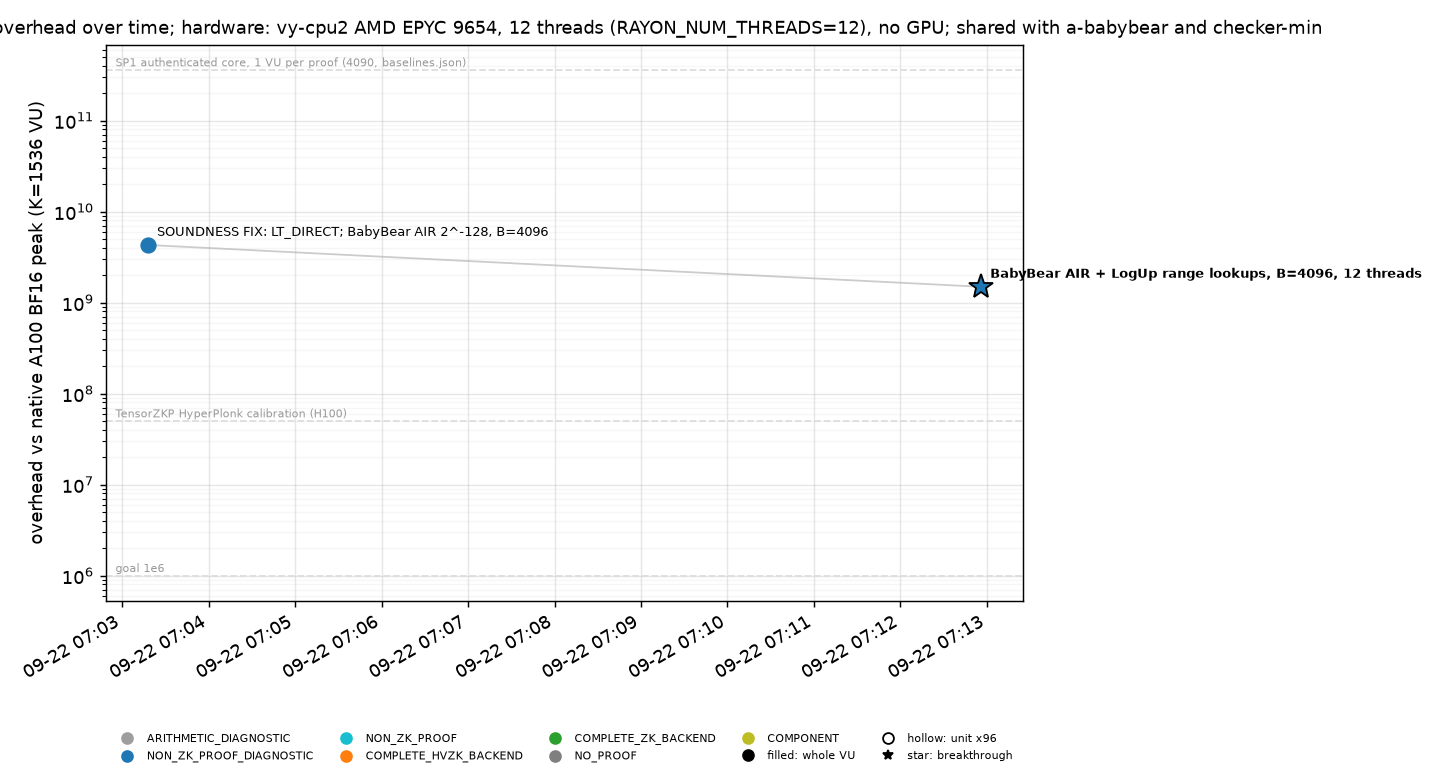
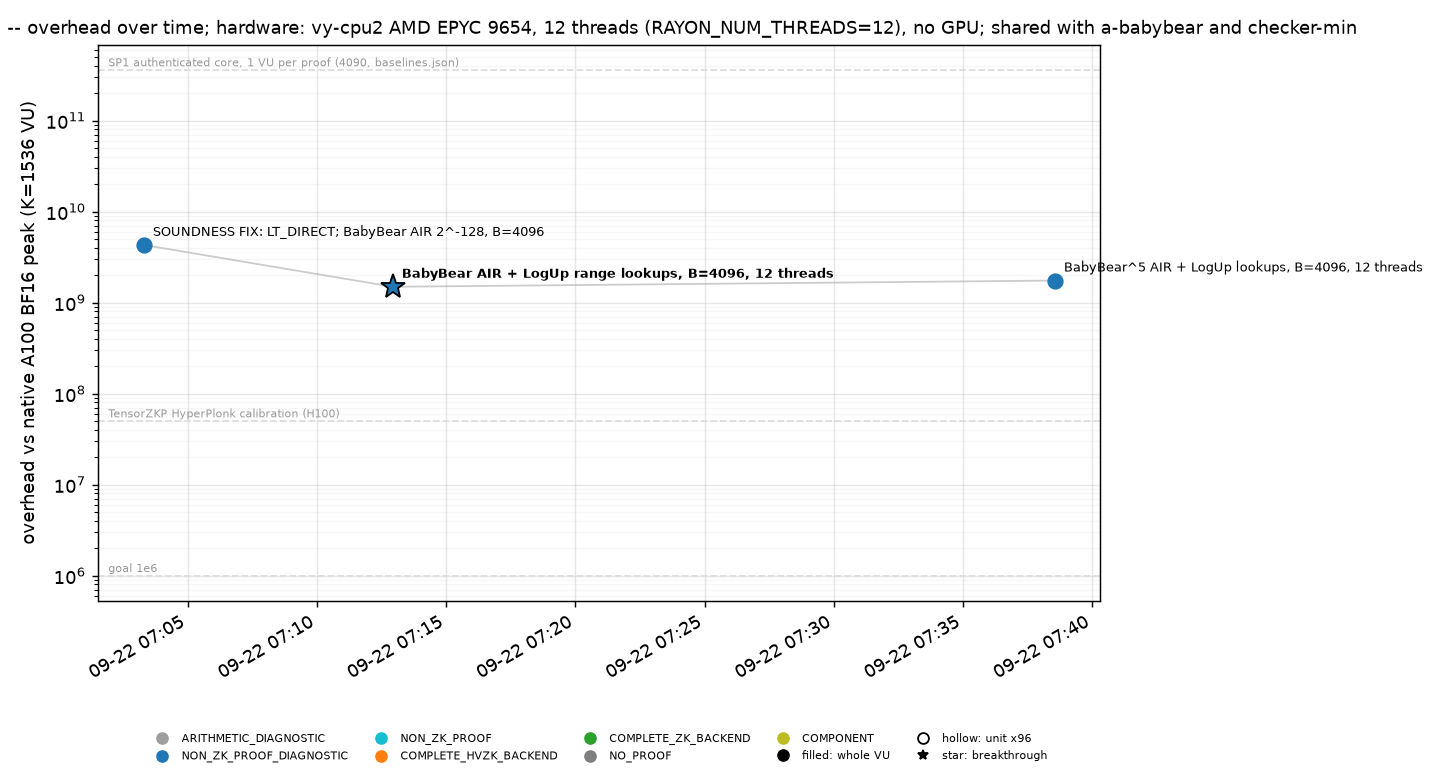
PROTOCOL 14.5/14.6: measurement table (limbs vs LogUp ^4 vs ^5) and the span profile (quotient 69%/68%, LDE+Merkle 23%); ledger ^5 entry; normalise hint shifts panic-free on adversarial overrides in debug; README

diff --git a/backends/direct/src/program.rs b/backends/direct/src/program.rs
@@ -490,6 +490,11 @@ fn leading_bit<C: Ctx>(ctx: &mut C, v: &C::V, tag: &str) -> C::V {
     l
 }
 
+/// Shifts that do not panic on adversarial (overridden) hint inputs in debug builds: the hint closures run on
+/// whatever the row supplies (`IntCtx::overrides`, the battery); the constraints, not these closures, are the check.
+fn shl(v: i128, k: i128) -> i128 { if (0..127).contains(&k) { v << k } else { 0 } }
+fn shr(v: i128, k: i128) -> i128 { if (0..127).contains(&k) { v >> k } else if v < 0 { -1 } else { 0 } }
+
 /// Normalise: (e1, M)
 fn normalise<C: Ctx>(ctx: &mut C, e: &C::V, l: &C::V, v: &C::V, tag: &str) -> (C::V, C::V) {
     let clamp = ctx.hint(&format!("{tag}.clamp"), &[e, l], &|x| ((x[0] + x[1] - WIDTH) < E_MIN) as i128);
@@ -497,13 +502,13 @@ fn normalise<C: Ctx>(ctx: &mut C, e: &C::V, l: &C::V, v: &C::V, tag: &str) -> (C
         let (e, l, v) = (x[0], x[1], x[2]);
         let e1 = (e + l - WIDTH).max(E_MIN);
         let k = e - e1 + ACC_SIG - WIDTH;
-        if k >= 0 { v << k } else { v >> -k }
+        if k >= 0 { shl(v, k) } else { shr(v, -k) }
     });
     let r = ctx.hint(&format!("{tag}.r"), &[e, l, v], &|x| {
         let (e, l, v) = (x[0], x[1], x[2]);
         let e1 = (e + l - WIDTH).max(E_MIN);
         let k = e - e1 + ACC_SIG - WIDTH;
-        if k >= 0 { 0 } else { v - ((v >> -k) << -k) }
+        if k >= 0 { 0 } else { v - shl(shr(v, -k), -k) }
     });
     ctx.boolean(&format!("{tag}.clamp"), &clamp);
     ctx.rng(&format!("{tag}.M"), &m, 0, 1 << ACC_SIG);

diff --git a/backends/direct/src/main.rs b/backends/direct/src/main.rs
@@ -51,6 +51,7 @@ fn main() {
             .with_env_filter(tracing_subscriber::EnvFilter::from_default_env())
             .with_span_events(FmtSpan::CLOSE)
             .with_target(false)
+            .with_ansi(false)
             .with_writer(std::io::stderr)
             .init();
     }

diff --git a/backends/direct/PROTOCOL.md b/backends/direct/PROTOCOL.md
@@ -726,4 +726,45 @@ the fast configuration is **\(2^{-93.8}\)**, and \(2^{-124.8}\) costs 17% more t
 
 ### 14.6 Where the time goes (profile)
 
-LOOKUP_PROFILE_PLACEHOLDER
+`run_profile.sh` runs both realisations with `RUST_LOG=debug` (a `tracing_subscriber` behind the env var prints
+Plonky3's `info_span!`s on close with their busy time; for the lookup prover the stage timers of `lookup_stark.rs`
+are printed as `lookup stages:`).  Run `r20260922-072959-ef63`, same configuration as 14.5, summary in
+`results/profile_spans_babybear_4096_r20260922-072959-ef63.txt`.  Busy seconds inside `prove` (12 threads):
+
+| stage | 2-bit limbs (width 2 930) | LogUp (401 + 6 + 456) | what it is |
+|---|---|---|---|
+| quotient evaluation | **102.0** (69%) | **36.7** (68%) | every constraint on every row of the 4x LDE coset, packed: the CPU bottleneck in both |
+| commit: coset LDE | 20.9 | 7.3 (3.3 main + 3.5 aux + 0.5 P, quotient) | DFT of the committed columns |
+| commit: Merkle (Keccak) | 13.8 | 5.0 | hashing the LDE rows |
+| open (`reduce matrix quotient`) | 7.3 | 3.0 | DEEP quotients over all committed matrices |
+| FRI (commit phase, 19 folds) | 0.5 | 0.5 | |
+| witness (outside `prove`) | 21.6 | 5.5 | integer forward run + hint materialisation (single pass, Rayon over VUs) |
+| total prove | 148 | 54 | |
+
+Reading:
+
+- **Constraint evaluation, not committed bytes, is the CPU bottleneck** in both realisations: 69% / 68% of `prove`.
+  With 2-bit limbs the quotient pass evaluates 3 247 constraints of degree \(\le 3\) per coset row, most of them
+  the trivial `l(l-1)(l-2)(l-3)` limb constraints and the wide limb recompositions -- cheap each, but 2 930 columns
+  of coset data stream through it.  With LogUp the program's constraints (402 base constraints, incl. the chain
+  tail) remain and the lookup adds 112 helper constraints + the \(g\) and \(S\) constraints over \(F_{ext}\), each
+  helper a degree-4 product over its 4 query terms; after the `prod_and_sum` rewrite (one extension multiplication
+  per query term instead of three) the pass is 2.8x cheaper -- the same factor as the total, so on CPU the
+  quotient pass scales with committed width \(\times\) constraint degree, and there is no separate encoding wall.
+- Encoding (LDE + Merkle) is 23% of `prove` in both; per committed base column it costs the same (\(\approx
+  12\) ms per column at \(2^{19}\) rows on 12 threads).  On the GPU (tensor.md) this is the part that becomes the whole
+  story, and it fell 3.4x in bytes.  The \(2^{19}\)-row LDE of a 2 930-column trace also set the 31 GB peak RSS;
+  the lookup prover peaks at 9.5 GB.
+- The lookup-specific work is small: `aux_build` (batch inversion of the 116 722 table denominators, the per-row
+  sums over 391 queries, the prefix sum) is 0.5 s, the preprocessed round 0.3 s.  The aux round's LDE + Merkle
+  (5.8 s) is the price of 456 base columns of extension helpers; BabyBear\(^5\) adds 114 more (7.3 s) and a wider
+  quotient pass (44 s), hence 70.4 s total.
+- Witness generation fell 4x (21.6 s to 5.5 s): the 1 868 2-bit limb decompositions per row are no longer
+  computed and written; the multiplicity histogram is one pass over the query values.
+
+Where the next factor is: (i) the committed aux width -- the 112 helpers could be halved by sharing one helper
+across two tables (a second \(\beta\)-power keeps the degree at 4) and \(g\) folded into \(S\), saving \(\approx
+60\) extension columns of encoding and of quotient input; (ii) the 401 main columns are now mostly the program's own
+hints (words, carries, quotients, selectors), which lookups do not touch -- that is a relation-side question
+(section 12.2's per-gadget census); (iii) on the GPU only the encoding term matters and the 3.4x is the number to
+carry to tensor.md.

diff --git a/backends/direct/README.md b/backends/direct/README.md
@@ -3,7 +3,10 @@
 The transition unit (one 16-product `mma.sync` update with an arbitrary finite accumulator) as an AIR whose
 constraints are the WP2 gadget contracts (`backends/numerical/python/verity_numerical/checker/`), and the **full
 K=1536 verification unit** as 96 chained rows plus the epilogue (`ChainAir`, PROTOCOL.md 12), proved with Plonky3
-`uni-stark` over Goldilocks or BabyBear. The design is `PROTOCOL.md`; this file is how to build, test and run what exists.
+`uni-stark` over Goldilocks or BabyBear; range checks and fixed tables either as 2-bit limbs / one-hot selectors
+(PROTOCOL.md 12) or as LogUp lookups against preprocessed tables (`--lookup`, PROTOCOL.md 14: 3.4x fewer committed
+bytes per VU, 2.9x faster at 4 096 VUs).  The BabyBear port was checked against the red team's six embedding rules
+and 83-case battery (PROTOCOL.md 13; one soundness fix, `LT_DIRECT` two-range form in `leading_bit`). The design is `PROTOCOL.md`; this file is how to build, test and run what exists.
 
 Labels on every number from this crate: `proof_class = NON_ZK_PROOF_DIAGNOSTIC`, `authentication = excluded`,
 `unit = transition` (`bench`) or `unit = vu`, `scope = vu` (`vu-bench`), `domain = finite`. The PCS is Plonky3 FRI + Keccak Merkle, **not** the Ligero-style interactive
@@ -15,7 +18,8 @@ PCS of `PROTOCOL.md`: it is the fastest complete non-ZK proof of the *right* con
 - `src/params.rs`: `REAL` (SIG 8 / EXP 8 / ACC_SIG 24 / WIDTH 25 / FLOOR −132 / groups 8+8), `MAX_DEG = 5`.
 - `src/program.rs`: the 12 WP2 gadget contracts written once against a `Ctx` trait (hint, eq, boolean, rng, lookup, mat).
 - `src/ctx.rs`: `IntCtx` (i128 witness generator + integer checker) and `AirCtx` (symbolic constraint emitter: range
-  checks as 2-bit limbs, fixed tables as one-hot selectors, auto-materialisation above degree 5).
+  checks as 2-bit limbs, fixed tables as one-hot selectors, auto-materialisation above degree 5; in
+  `Realisation::LogUp` both become recorded queries instead).
 - `src/air.rs`: `UnitAir` (one independent row per unit) and `ChainAir` (one row per unit, accumulator carried by a
   transition constraint, step counter + `first`/`last` selectors, epilogue on every row, claim column bound on the
   last row); `Layout`, trace builders (`chain_trace` is parallel over VUs), per-constraint `Evaluator`.
